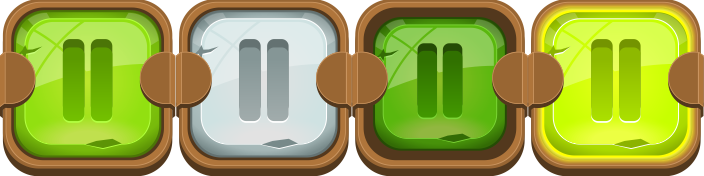
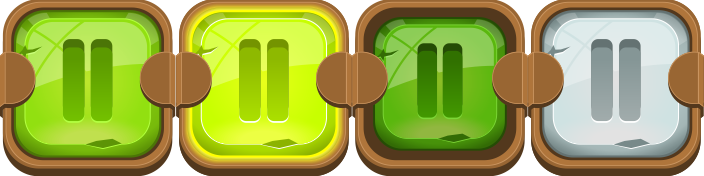
Nuevos botones
* Rediseñada la imagen de varios iconos para la interfaz
+ Añadidos los botones al juego
* Modificados los colores de los botones

diff --git a/src/modules/game.js b/src/modules/game.js
@@ -15,6 +15,7 @@ define(function (require, exports, module, Config) {
 
 
 
+    var ButtonGroup = require('sprites/game/button_group');
     var ProgresStatus = require('sprites/game/progress_status');
     var ProgresData = require('sprites/game/progress_data');
 
@@ -41,10 +42,16 @@ define(function (require, exports, module, Config) {
 
 
             this.coins = new ProgresData(this.game, "right", 0, "coins", 0);
-            this.gems = new ProgresData(this.game, "right", 1, "gems", 0);
+            this.distance = new ProgresData(this.game, "right", 1, "distance", 0);
 
             this.life = new ProgresStatus(this.game, "left", 0, "life",100);
             this.power = new ProgresStatus(this.game, "left", 1, "power", 0);
+
+            this.buttons = new ButtonGroup(this.game,this.game.world.centerX,10, "center");
+            this.buttons.addButtton("pause", null, null);
+            this.buttons.addButtton("sound", null, null);
+            this.buttons.addButtton("settings", null, null);
+
             this.initGameController();
             this.inicio = Moment();
         },
@@ -64,7 +71,7 @@ define(function (require, exports, module, Config) {
                 if (this.player.jumping == false) this.player.jump();
             }
 
-            this.gems.numero((Moment().diff(this.inicio))/500);
+            this.distance.numero((Moment().diff(this.inicio))/500);
             //console.log((Moment().diff(this.inicio)));
 
         },

diff --git a/src/modules/load.js b/src/modules/load.js
@@ -39,6 +39,7 @@ define(function(require, exports, module) {
             this.game.load.image('shieldprogress',     'src/assets/menu/progress/shield_progress.png');
             this.game.load.image('coins',              'src/assets/menu/progress/coins.png');
             this.game.load.image('gems',               'src/assets/menu/progress/gems.png');
+            this.game.load.image('distance',           'src/assets/menu/progress/distance.png');
 
             // Monedas y gemas del juego
             this.game.load.spritesheet('coin_gold', 'src/assets/coins/coin_gold.png', 85.71, 86, 14);

diff --git a/src/sprites/game/button.js b/src/sprites/game/button.js
@@ -5,7 +5,7 @@ define(function (require, exports, module, Config) {
     var Phaser = require('phaser');
 
     function Button(game, x, y, key, callback,context) {
-        Phaser.Button.call(this,game, x, y, "btn_"+key, callback, this, 1, 0, 3, 0)
+        Phaser.Button.call(this,game, x, y, "btn_"+key, callback, this, 2, 0, 1, 3);
         game.add.existing(this);
         this.scale.setTo(0.5);
     };

diff --git a/src/modules/menu.js b/src/modules/menu.js
@@ -2,7 +2,6 @@ define(function(require, exports, module) {
 
     'use strict';
 
-    var ButtonGroup = require('sprites/game/button_group');
 
     function Menu() {
         this.background = null;
